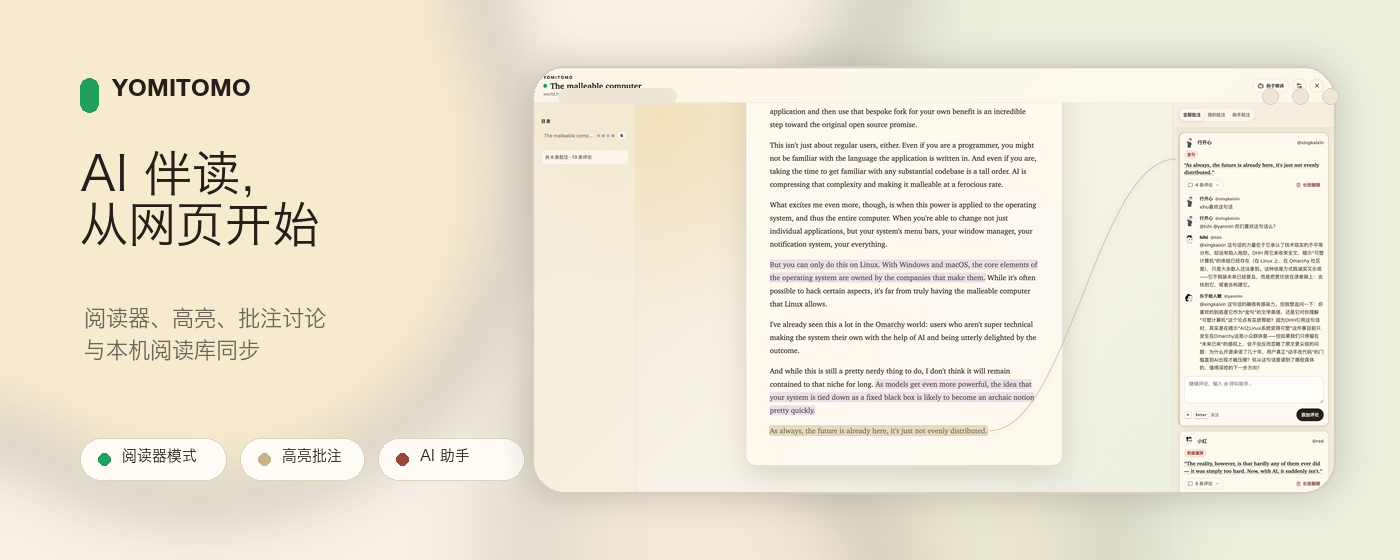
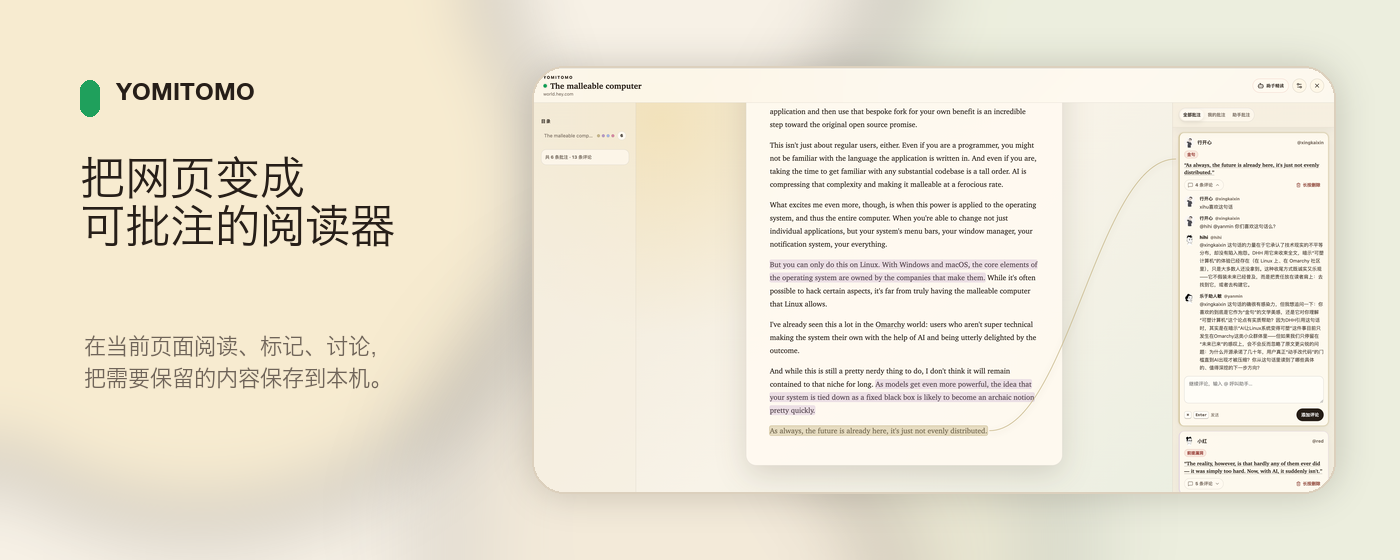
feat(extension): use Chinese description in Chrome Web Store manifest

diff --git a/apps/extension/wxt.config.ts b/apps/extension/wxt.config.ts
@@ -22,7 +22,7 @@ export default defineConfig({
   },
   manifest: {
     name: 'Yomitomo',
-    description: 'Yomitomo reader mode with persistent highlights and threaded annotations.',
+    description: '把网页文章变成可高亮、可批注的阅读器。',
     version: packageJson.version,
     minimum_chrome_version: '116',
     permissions: ['storage', 'scripting', 'activeTab'],

diff --git a/docs/chrome-web-store-listing.md b/docs/chrome-web-store-listing.md
@@ -1,0 +1,61 @@
+# Chrome Web Store Listing
+
+## 名称
+
+Yomitomo
+
+## 类别
+
+Education
+
+## 简短说明
+
+把网页文章变成可高亮、可批注的阅读器。
+
+## 详细说明
+
+Yomitomo 是一个面向深度阅读的浏览器扩展。用户点击扩展按钮后，可以把当前网页文章转换为干净的阅读视图，在页面中标记重点、写下批注，并围绕批注继续讨论。
+
+扩展可以独立用于当前网页阅读和批注。用户安装 Yomitomo 桌面端并完成配对后，还可以把需要保留的文章和批注保存到本机阅读库。
+
+主要功能：
+
+- 打开当前网页的阅读器视图。
+- 选中文本后创建高亮和批注。
+- 在批注下继续评论。
+- 将文章和阅读记录保存到本机。
+- 通过本机连接与 Yomitomo 桌面端同步数据。
+
+Yomitomo 只在用户主动操作时读取当前标签页内容。阅读数据默认保存在用户浏览器和本机环境中。
+
+## 权限理由
+
+### storage
+
+Yomitomo 使用 storage 保存扩展状态、桌面端配对信息、文章记录、阅读状态、高亮、批注和评论数据，用于恢复用户的阅读进度、批注内容和本机同步状态。
+
+### scripting
+
+Yomitomo 使用 scripting 在用户主动点击扩展按钮时向当前标签页注入内容脚本，用于检测文章正文、打开阅读器模式、提取当前页面内容并支持页面内高亮和批注交互。
+
+### activeTab
+
+Yomitomo 使用 activeTab 在用户主动点击扩展按钮后临时访问当前标签页，用于读取当前页面的文章正文、标题和链接，打开阅读器模式，并支持本次页面内的高亮、批注和评论交互。
+
+### host permissions
+
+Yomitomo 请求 127.0.0.1 主机权限，用于连接用户本机运行的 Yomitomo 桌面端。扩展通过本地 HTTP / WebSocket 检测连接状态、发送用户主动保存的文章，并同步高亮、批注和评论数据。
+
+## 远程代码
+
+选择：不，我并未使用远程代码
+
+Yomitomo 扩展包内包含运行所需的 JavaScript 代码。扩展通过本机 HTTP / WebSocket 传输用户数据，所有执行代码随扩展包发布。
+
+## 申诉说明
+
+Yomitomo 的商店详情已重新整理，使用自然语言描述扩展的单一用途：用户主动点击后把当前网页文章转换为阅读器视图，并提供高亮、批注、评论和本机保存能力。
+
+扩展自身提供当前网页的阅读器和页面内阅读交互。桌面端连接用于用户主动保存文章和同步本机阅读数据。
+
+权限也已收窄：扩展使用 activeTab 临时访问用户主动操作的当前标签页，主机权限仅保留 127.0.0.1，用于连接用户本机运行的 Yomitomo 桌面端。